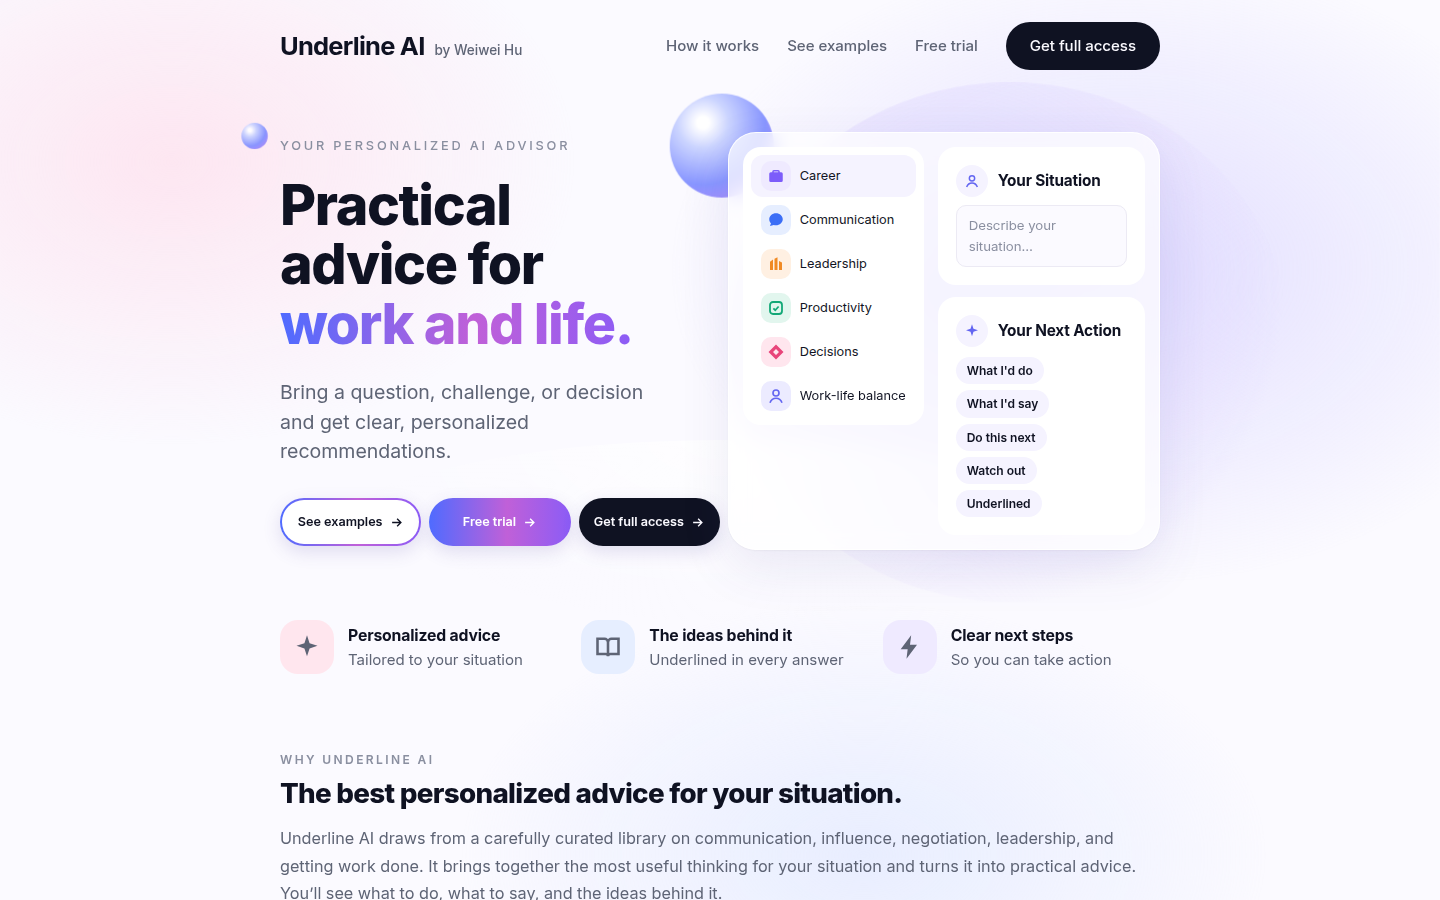
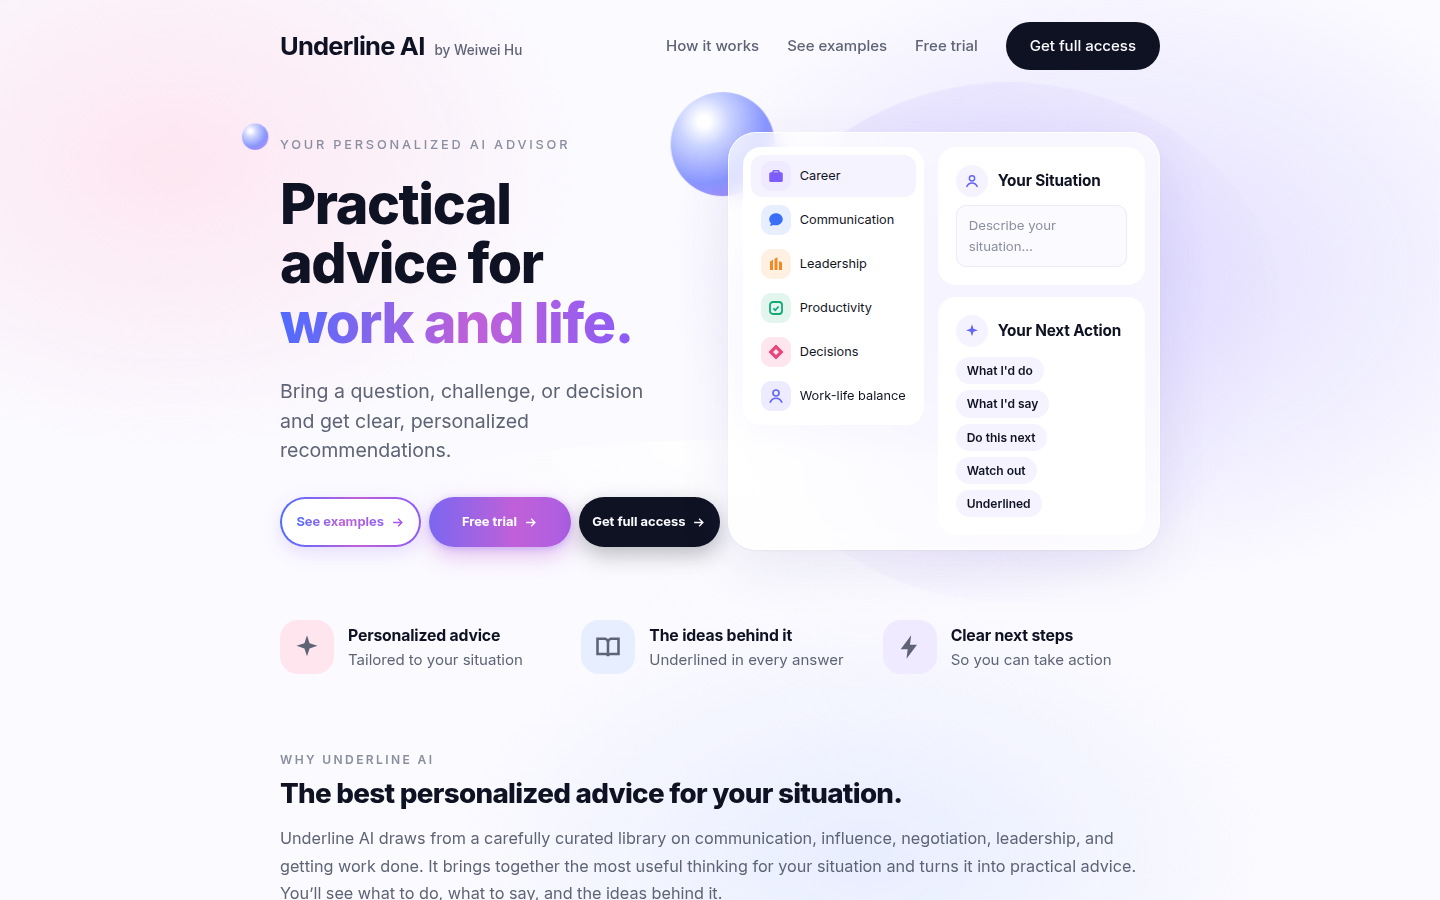
Hero buttons: gradient text and outline, glowing moving gradient with light sweep, gradient ring on hover
Claude-Session: https://claude.ai/code/session_01N7N6w9NyR9iyFeuC71Pzud

diff --git a/index.html b/index.html
@@ -284,16 +284,33 @@ html{overflow-x:hidden}
 .trybtn:hover{filter:brightness(1.08)}
 .hero .ctas .btn.big{min-width:0;flex:0 0 190px;width:190px!important;white-space:nowrap}
 .hero .ctas{flex-wrap:nowrap;gap:12px}
-/* Hero: three equal buttons on one line, each with the arrow, that lift and nudge on hover */
+/* Hero: three equal buttons on one line, each with the arrow.
+   See examples: gradient outline and gradient text. Free trial: moving gradient, glow and a light sweep.
+   Get full access: dark with a gradient ring on hover. All lift, press and nudge their arrow. */
 .hero .ctas{display:grid;grid-template-columns:repeat(3,1fr);gap:8px;width:440px;max-width:calc(100vw - 32px)}
-.hero .ctas .btn.big{width:auto!important;flex:none;height:48px;padding:0 8px!important;font-size:.84rem!important;gap:6px;box-shadow:0 6px 18px rgba(79,70,160,.16);transition:transform .15s ease,box-shadow .15s ease,filter .15s ease}
-.hero .ctas .btn svg{width:15px;height:15px;flex:none;transition:transform .15s ease}
-.hero .ctas .btn:hover{transform:translateY(-2px);box-shadow:0 10px 24px rgba(79,70,160,.26)}
-.hero .ctas .btn:hover svg{transform:translateX(3px)}
+.hero .ctas .btn.big{position:relative;overflow:hidden;width:auto!important;flex:none;height:50px;padding:0 8px!important;font-size:.86rem!important;font-weight:700;gap:6px;
+  transition:transform .18s ease,box-shadow .18s ease,background-position .6s ease}
+.hero .ctas .btn svg{width:15px;height:15px;flex:none;transition:transform .18s ease}
+.hero .ctas .btn:hover{transform:translateY(-3px)}
+.hero .ctas .btn:active{transform:translateY(-1px) scale(.98)}
+.hero .ctas .btn:hover svg{transform:translateX(4px)}
 .hero .ctas .btn:focus-visible{outline:2px solid var(--purple);outline-offset:3px}
-.btn.line{color:var(--ink);border:2px solid transparent!important;background:linear-gradient(var(--card),var(--card)) padding-box,var(--grad) border-box}
-.btn.line:hover{background:linear-gradient(var(--tint),var(--tint)) padding-box,var(--grad) border-box}
-@media (prefers-reduced-motion:reduce){.hero .ctas .btn,.hero .ctas .btn svg{transition:none}.hero .ctas .btn:hover,.hero .ctas .btn:hover svg{transform:none}}
+.hero .ctas .btn.line{border:2px solid transparent!important;background:linear-gradient(var(--card),var(--card)) padding-box,var(--grad) border-box;box-shadow:0 6px 18px rgba(139,92,246,.18)}
+.hero .ctas .btn.line .bt{background:var(--grad);-webkit-background-clip:text;background-clip:text;color:transparent}
+.hero .ctas .btn.line svg{color:#A855F7}
+.hero .ctas .btn.line:hover{background:linear-gradient(var(--tint),var(--tint)) padding-box,var(--grad) border-box;box-shadow:0 12px 28px rgba(139,92,246,.30)}
+.hero .ctas .btn.trybtn{color:#fff;background:linear-gradient(90deg,#4F6BFF,#C060D8,#8B5CF6,#4F6BFF);background-size:300% 100%;animation:ulflow 6s ease-in-out infinite;
+  box-shadow:0 8px 22px rgba(192,96,216,.42),0 2px 6px rgba(79,107,255,.25)}
+.hero .ctas .btn.trybtn::after{content:"";position:absolute;top:0;bottom:0;left:-60%;width:45%;transform:skewX(-20deg);
+  background:linear-gradient(90deg,transparent,rgba(255,255,255,.45),transparent);animation:ulsweep 3.6s ease-in-out infinite;pointer-events:none}
+.hero .ctas .btn.trybtn:hover{box-shadow:0 14px 32px rgba(192,96,216,.55),0 2px 8px rgba(79,107,255,.3);filter:saturate(1.1)}
+.hero .ctas .btn.dark{box-shadow:0 8px 22px rgba(15,18,34,.28)}
+.hero .ctas .btn.dark:hover{box-shadow:0 0 0 2px #C060D8,0 14px 30px rgba(139,92,246,.35)}
+@keyframes ulflow{0%,100%{background-position:0% 50%}50%{background-position:100% 50%}}
+@keyframes ulsweep{0%,55%{left:-60%}85%,100%{left:130%}}
+@media (prefers-color-scheme: dark){:root:not([data-theme="light"]) .hero .ctas .btn.dark{box-shadow:0 8px 22px rgba(0,0,0,.4)}}
+@media (prefers-reduced-motion:reduce){.hero .ctas .btn,.hero .ctas .btn svg{transition:none}.hero .ctas .btn:hover,.hero .ctas .btn:hover svg,.hero .ctas .btn:active{transform:none}
+  .hero .ctas .btn.trybtn{animation:none}.hero .ctas .btn.trybtn::after{display:none}}
 @media (max-width:520px){.hero .ctas{grid-template-columns:1fr;width:100%}.hero .ctas .btn.big{width:100%!important;font-size:.95rem!important}}
 </style>
 
@@ -316,8 +333,8 @@ html{overflow-x:hidden}
       <h1>Practical advice for <span class="grad">work and life.</span></h1>
       <p class="lead">Bring a question, challenge, or decision and get clear, personalized recommendations.</p>
       <div class="ctas">
-        <a class="btn big line" href="#try">See examples <svg viewBox="0 0 24 24" width="20" height="20" fill="none" stroke="currentColor" stroke-width="2.2" aria-hidden="true"><path d="M5 12h14M13 6l6 6-6 6"/></svg></a>
-        <a class="btn big trybtn" id="heroTry" href="#try">Free trial <svg viewBox="0 0 24 24" width="20" height="20" fill="none" stroke="currentColor" stroke-width="2.2" aria-hidden="true"><path d="M5 12h14M13 6l6 6-6 6"/></svg></a>
+        <a class="btn big line" href="#try"><span class="bt">See examples</span> <svg viewBox="0 0 24 24" width="20" height="20" fill="none" stroke="currentColor" stroke-width="2.2" aria-hidden="true"><path d="M5 12h14M13 6l6 6-6 6"/></svg></a>
+        <a class="btn big trybtn" id="heroTry" href="#try"><span class="bt">Free trial</span> <svg viewBox="0 0 24 24" width="20" height="20" fill="none" stroke="currentColor" stroke-width="2.2" aria-hidden="true"><path d="M5 12h14M13 6l6 6-6 6"/></svg></a>
         <a class="btn big dark" href="https://buy.stripe.com/cNi14nfzP6RKfkX9F2eQM00" target="_blank" rel="noopener">Get full access <svg viewBox="0 0 24 24" width="20" height="20" fill="none" stroke="currentColor" stroke-width="2.2" aria-hidden="true"><path d="M5 12h14M13 6l6 6-6 6"/></svg></a>
       </div>
     </div>
